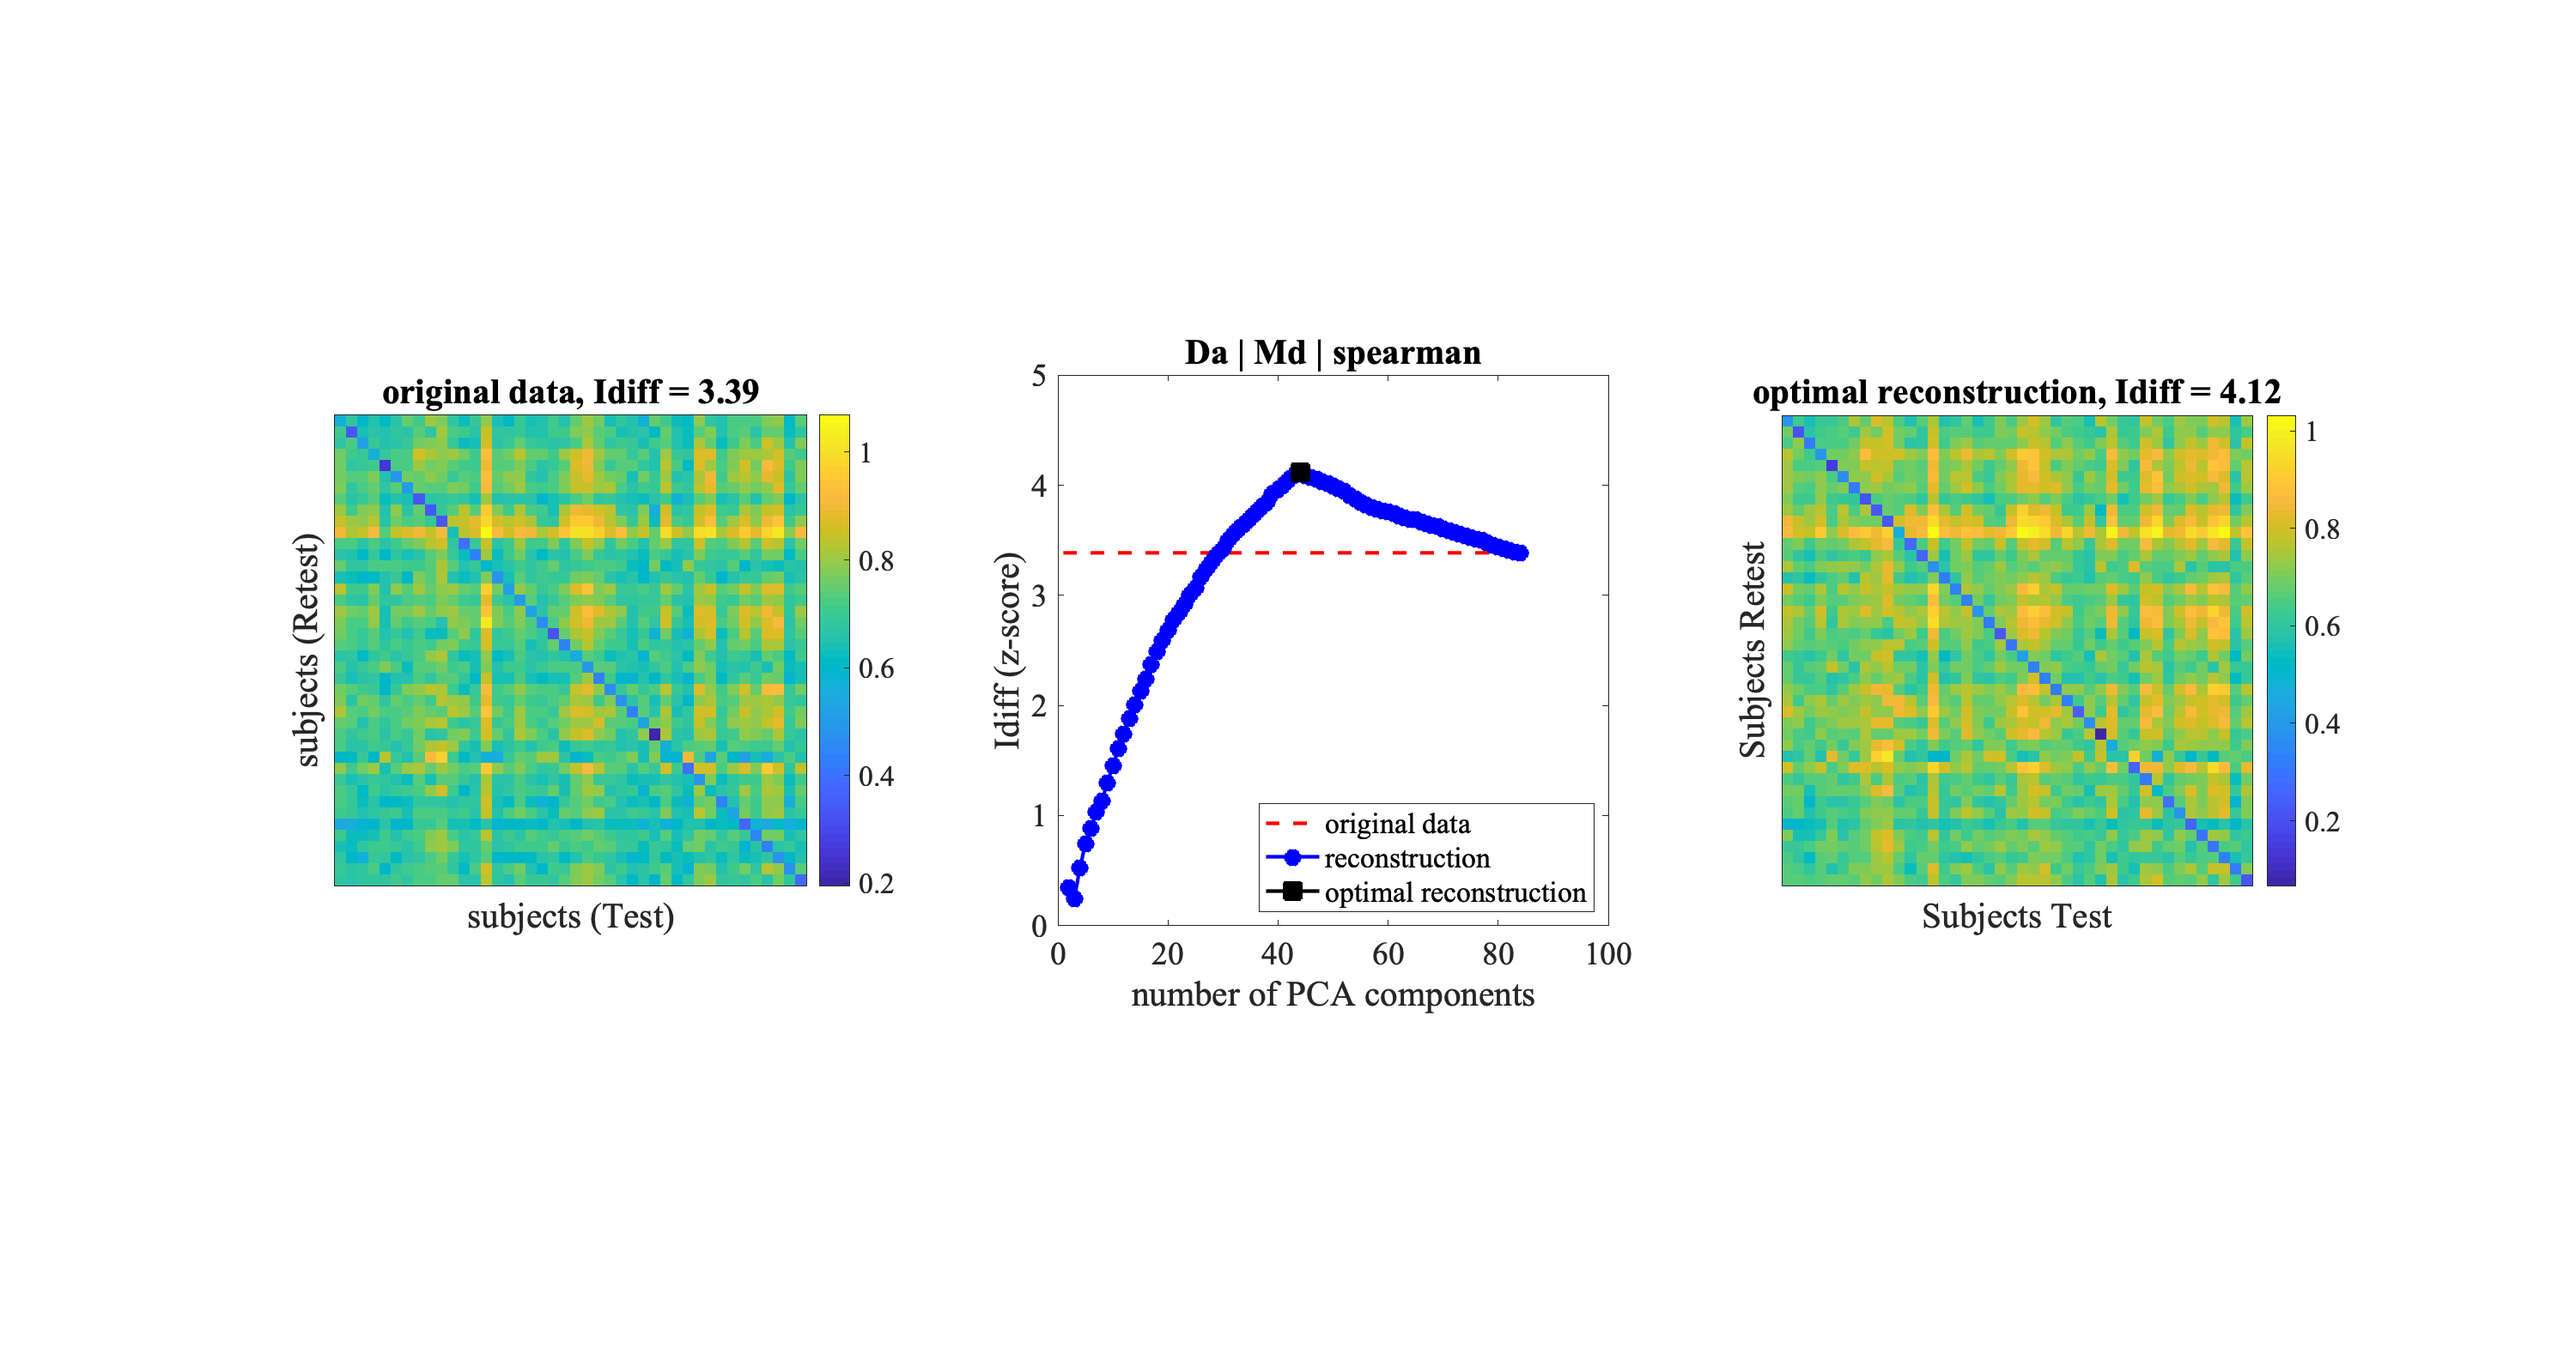
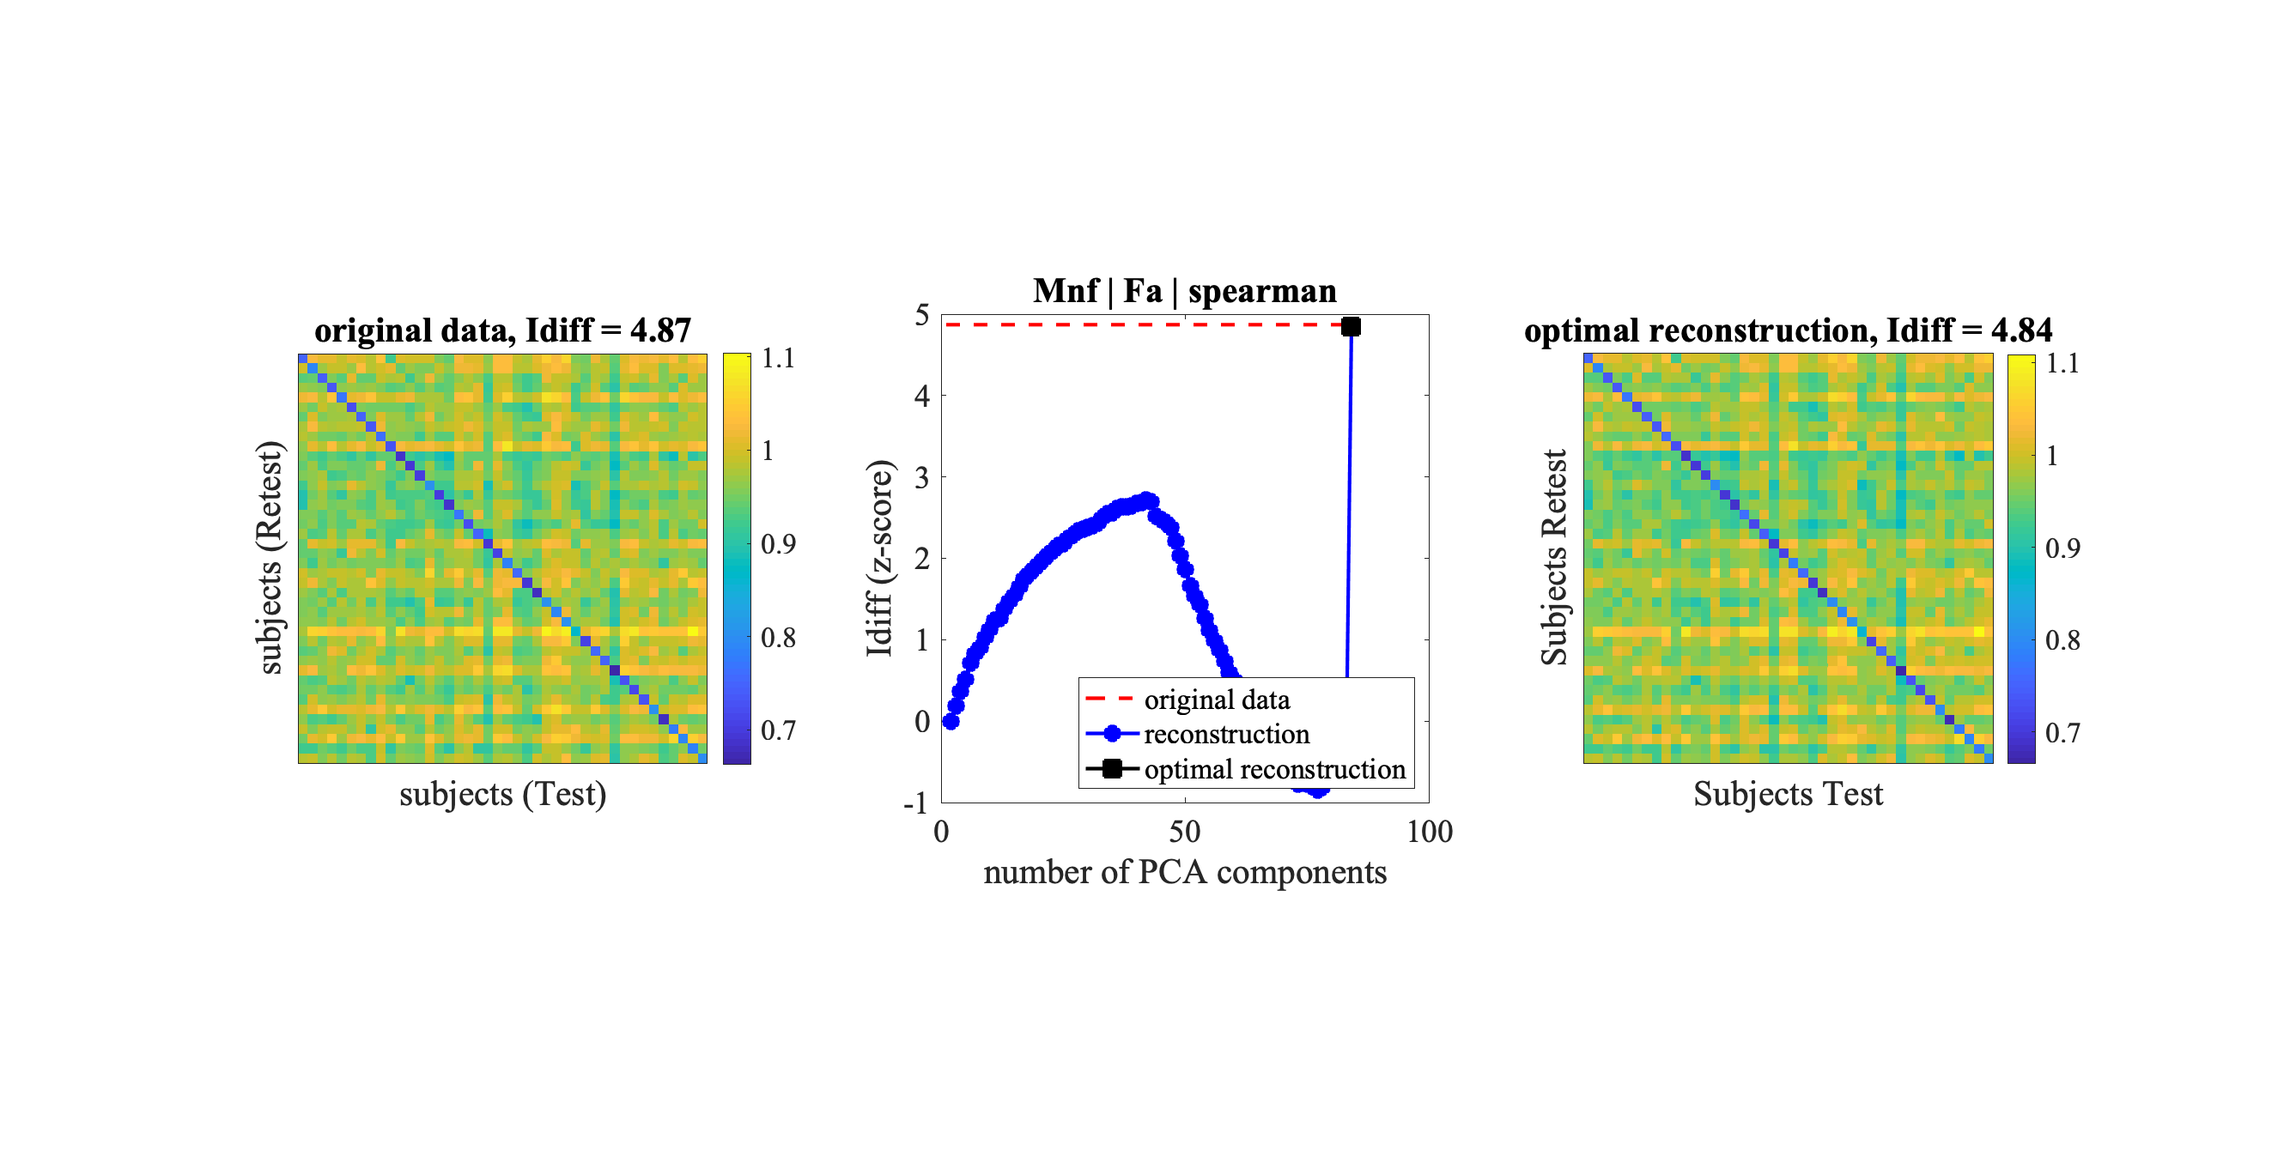
used 84x84 similarity matrix

diff --git a/Scripts/sc_identifiability.m b/Scripts/sc_identifiability.m
@@ -51,7 +51,7 @@ diag_mask = logical(eye(configs.numDiffMetrics));
 cols = 1:10:configs.numFCs;
 %Mask of edges that >35 subjects share
 mnf_connectivity = original_matrix(:,6:10:end);
-mask_mnf = sum(mnf_connectivity >0, 2) >= 42;
+mask_mnf = sum(mnf_connectivity >0, 2) >= 25;
 connectivity_matrix = original_matrix(mask_mnf,:);
 
 for subject = 1:configs.numSubjects
@@ -96,8 +96,8 @@ test_index = 1:42;
 retest_index = 43:84;
 max_idiff_mat = nan(10);
 
-for metric_1 = 1:10
-    for metric_2 = 1:10
+for metric_1 = 6
+    for metric_2 = 3
         metric1_index = metric_1:10:configs.numFCs;
         metric2_index = metric_2:10:configs.numFCs;
         pairwise_mat = connectivity_matrix(:,[metric1_index, metric2_index]);
@@ -108,36 +108,36 @@ for metric_1 = 1:10
             fprintf('Computing for metric %d and %d\n', metric_1, metric_2)
             [Idiff_orig,Ident_mat_orig,Idiff_recon,Idiff_opt,recon_matrix_opt,Ident_mat_recon_opt,PCA_comps_range,m_star, latent] = f_PCA_identifiability(pairwise_mat, test_index, retest_index, configs);
             max_idiff_mat(metric_1, metric_2) = max(Idiff_recon);
-            %r2 = cumsum(latent) ./ sum(latent);
+            r2 = cumsum(latent) ./ sum(latent);
             
-            % Plotting
-%             figure,
-%             plot(r2)
-%             fig = figure('units','normalized','outerposition',[0 0 1 1]); % Plot Figures
-%             %suptitle(['Opt Identifiability Recon at ' int2str(m_star) ' PCA comps'])
-%             subplot(1,3,1);
-%             imagesc(Ident_mat_orig);
-%             axis square; xlabel('subjects (Test)');ylabel('subjects (Retest)');
-%             title(sprintf('original data, Idiff = %0.2f',Idiff_orig)); colorbar; % caxis([0.2 1]);
-%             set(gca,'XTick',[],'YTick',[]);
-%             
-%             subplot(1,3,2);
-%             plot(PCA_comps_range,Idiff_orig*ones(length(PCA_comps_range),1),'--r','LineWidth',2); hold on;
-%             plot(PCA_comps_range,Idiff_recon,'-ob','LineWidth',2,'MarkerFaceColor','b','MarkerSize',8);
-%             plot(m_star,Idiff_opt,'-sk','LineWidth',2,'MarkerFaceColor','k','MarkerSize',12);
-%             
-%             xlabel('number of PCA components'); ylabel('Idiff (z-score)');
-%             axis square;
-%             legend({'original data','reconstruction','optimal reconstruction'},'Location','SouthEast');
-%             title(sprintf('%s | %s | %s', metrics{metric_1}, metrics{metric_2}, type{1}))
-%             
-%             sprintf('Maximal Identifiability (%0.2f) found at %d PCA comps',Idiff_opt,m_star)
-%             
-%             subplot(1,3,3);
-%             imagesc(Ident_mat_recon_opt); axis square; xlabel('Subjects Test');ylabel('Subjects Retest');
-%             title(sprintf('optimal reconstruction, Idiff = %0.2f',max(Idiff_recon))); colorbar; % caxis([0.2 1]);
-%             set(gca,'XTick',[],'YTick',[]);
-%             saveas(fig, sprintf('../Images/1-4_mask_%s.png', type{1}))
+            %Plotting
+            figure,
+            plot(r2)
+            fig = figure('units','normalized','outerposition',[0 0 1 1]); % Plot Figures
+            %suptitle(['Opt Identifiability Recon at ' int2str(m_star) ' PCA comps'])
+            subplot(1,3,1);
+            imagesc(Ident_mat_orig);
+            axis square; xlabel('subjects (Test)');ylabel('subjects (Retest)');
+            title(sprintf('original data, Idiff = %0.2f',Idiff_orig)); colorbar; % caxis([0.2 1]);
+            set(gca,'XTick',[],'YTick',[]);
+            
+            subplot(1,3,2);
+            plot(PCA_comps_range,Idiff_orig*ones(length(PCA_comps_range),1),'--r','LineWidth',2); hold on;
+            plot(PCA_comps_range,Idiff_recon,'-ob','LineWidth',2,'MarkerFaceColor','b','MarkerSize',8);
+            plot(m_star,Idiff_opt,'-sk','LineWidth',2,'MarkerFaceColor','k','MarkerSize',12);
+            
+            xlabel('number of PCA components'); ylabel('Idiff (z-score)');
+            axis square;
+            legend({'original data','reconstruction','optimal reconstruction'},'Location','SouthEast');
+            title(sprintf('%s | %s | %s', metrics{metric_1}, metrics{metric_2}, type{1}))
+            
+            sprintf('Maximal Identifiability (%0.2f) found at %d PCA comps',Idiff_opt,m_star)
+            
+            subplot(1,3,3);
+            imagesc(Ident_mat_recon_opt); axis square; xlabel('Subjects Test');ylabel('Subjects Retest');
+            title(sprintf('optimal reconstruction, Idiff = %0.2f',max(Idiff_recon))); colorbar; % caxis([0.2 1]);
+            set(gca,'XTick',[],'YTick',[]);
+            saveas(fig, sprintf('../Images/1-4_mask_%s.png', type{1}))
         end
         
     end

diff --git a/Scripts/f_PCA_identifiability.m b/Scripts/f_PCA_identifiability.m
@@ -6,8 +6,8 @@ orig_matrix_test = orig_matrix(:,Test_index);
 orig_matrix_retest = orig_matrix(:,Retest_index);
 
 %% Compute Distance/Similarity Matrix for pcacov
-dist_mat = pdist2(orig_matrix_test',orig_matrix_retest', 'euclidean');
-similarity_mat = ones(42,42) - dist_mat;
+dist_mat = pdist2(orig_matrix',orig_matrix', 'spearman');
+similarity_mat = ones(84,84) - dist_mat;
 
 %% Plot Distance/Similarity Matrix
 % fig = figure('units','normalized','outerposition',[0 0 1 1]);
@@ -59,7 +59,9 @@ end
 Idiff_recon = zeros(1,configs.max_numPCs); %Initialization for Identifiability score for reconstructed connectivty data (indexed by number of components).
 PCA_comps_range = 1:configs.max_numPCs;
 disp('FC reconstruction with:')
-[COEFF, SCORE, latent] = pcacov(similarity_mat);  
+[COEFF, latent] = pcacov(similarity_mat);  
+SCORE = orig_matrix * COEFF;
+
 for i = PCA_comps_range
     recon_matrix = SCORE(:,1:i)*COEFF(:,1:i)'; % PCA reconstructed demeaned data    
     recon_matrix = bsxfun(@plus,recon_matrix,mean(orig_matrix)); % plug the mean back
